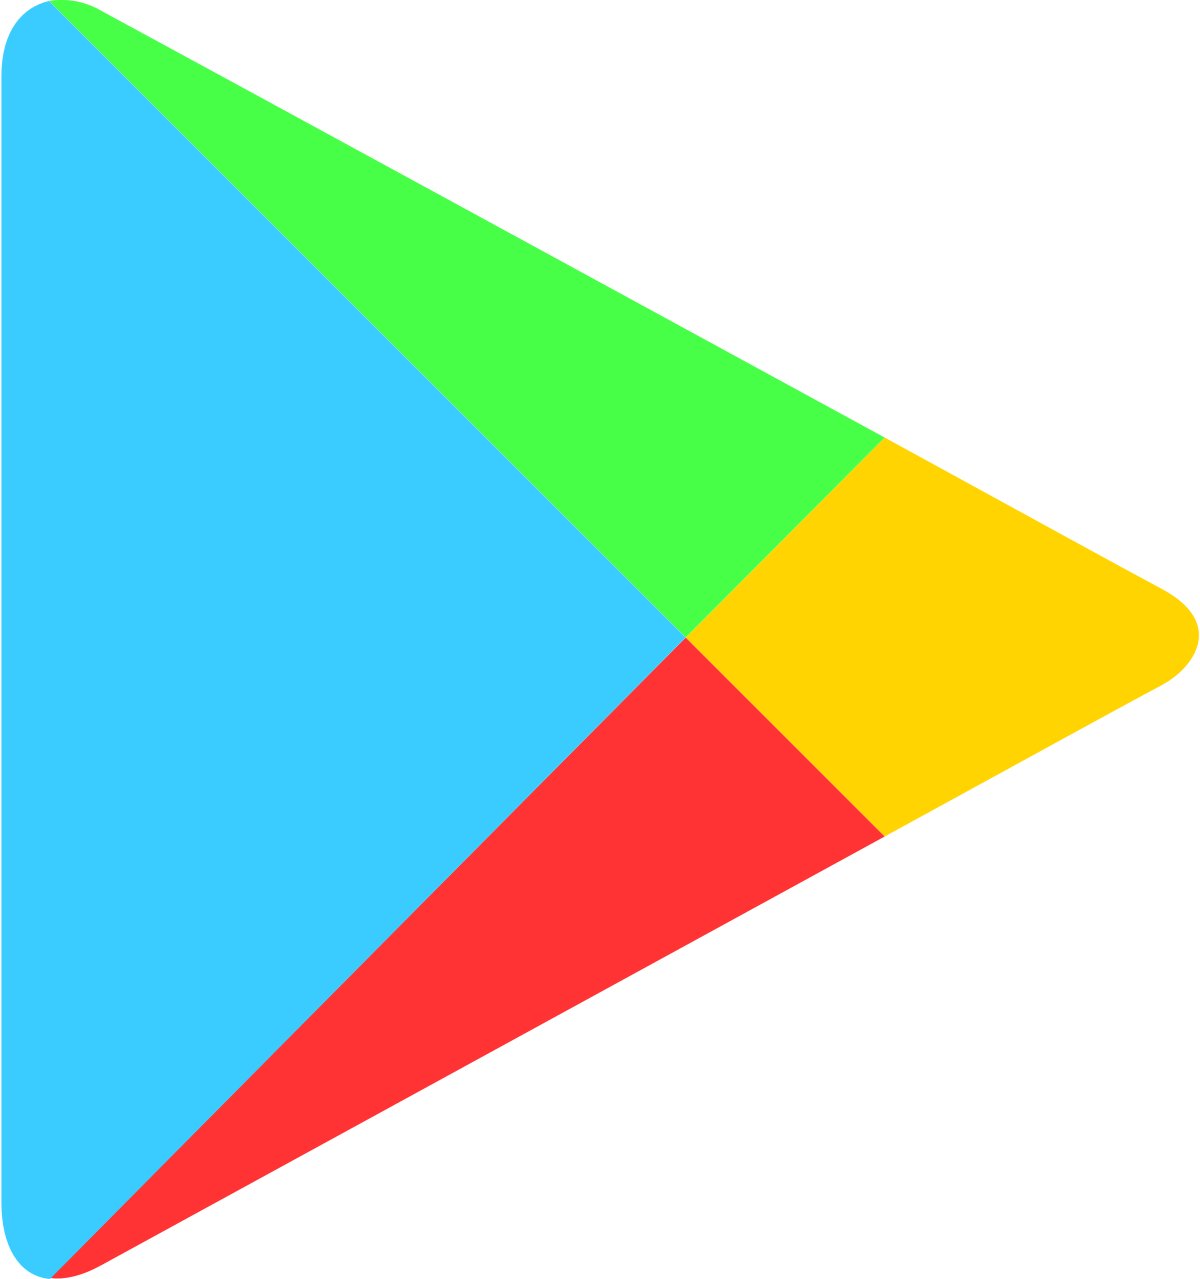
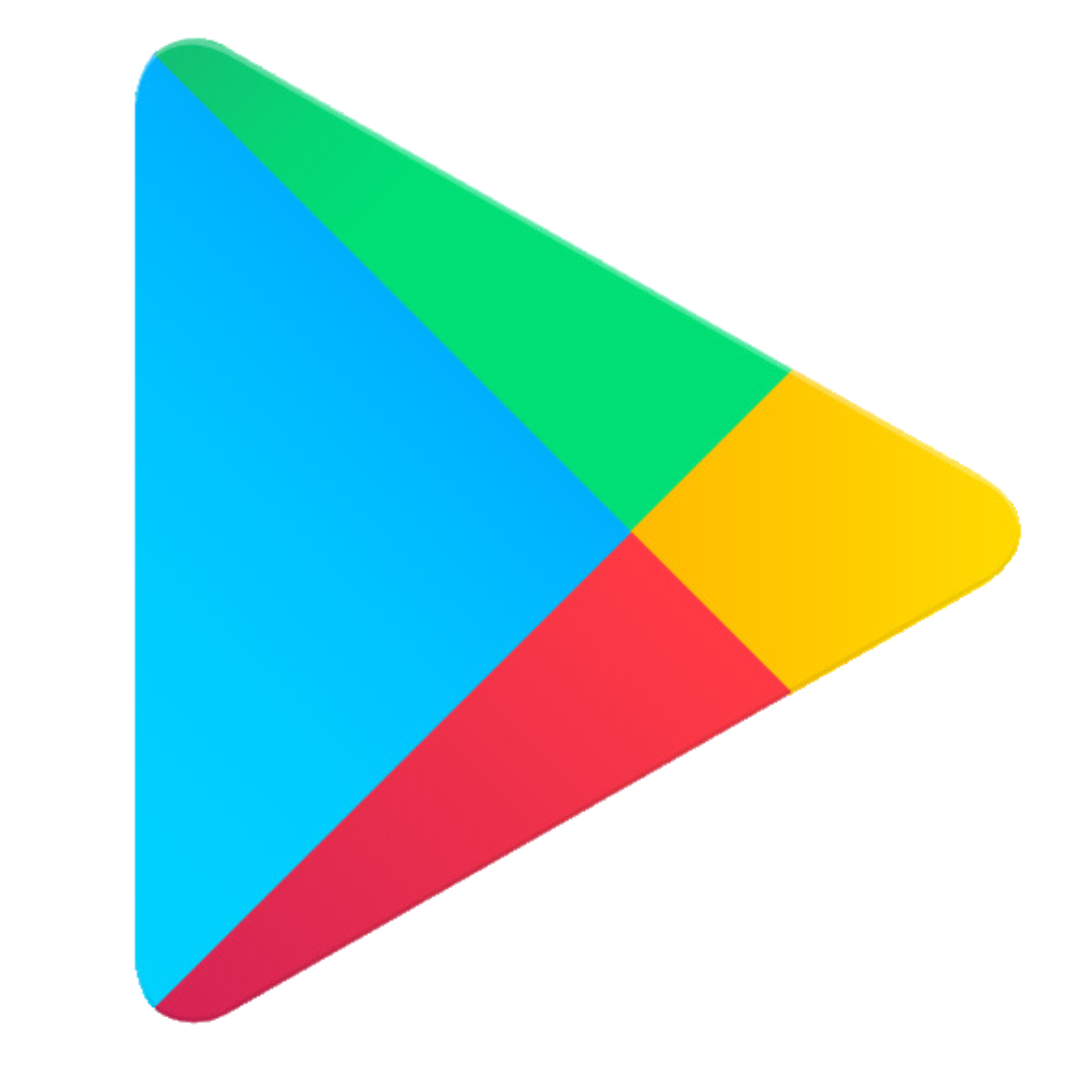
Cambios de merjoramiento footer
Se ubican iconos en el footer

diff --git a/pages/pago.html b/pages/pago.html
@@ -1,5 +1,6 @@
 <!DOCTYPE html>
 <html lang="es">
+
 <head>
     <meta charset="UTF-8">
     <meta name="viewport" content="width=device-width, initial-scale=1.0">
@@ -10,6 +11,7 @@
     <script src="../scripts/templateFooter.js"></script>
 
 </head>
+
 <body>
     <div class="order-body">
         <div class="order-container">
@@ -35,11 +37,11 @@
                 <p>Costo de envío: <span id="shipping-cost"></span></p>
             </div>
             <button class="pay-now-btn">Pagar Ahora</button>
-    
+
         </div>
-    
+
     </div>
-  
+
     <template id="footer-template">
         <style>
             .footer-container {
@@ -71,8 +73,9 @@
             }
 
             .app-links img {
-                width: 135px;
-                margin: 5px;
+                width: 90px;
+                height: 50px;
+                object-fit: contain;
             }
 
             .footer-social {
@@ -105,7 +108,8 @@
                 <div class="footer-section logo-section">
                     <img src="../assets/img/logofooter.png" alt="KFC Logo">
                     <p>Menu - Compra tu combo en línea - KFC Ecuador</p>
-                    <p>Conoce donde se encuentran las ubicaciones de las tiendas de KFC en Ecuador, utiliza nuestro mapa para localizar el local de KFC más cercano a ti.</p>
+                    <p>Conoce donde se encuentran las ubicaciones de las tiendas de KFC en Ecuador, utiliza nuestro mapa
+                        para localizar el local de KFC más cercano a ti.</p>
                 </div>
                 <div class="footer-section contact-section">
                     <h4>Contáctanos</h4>
@@ -124,15 +128,10 @@
                 <div class="footer-section app-section">
                     <h4>Descarga nuestra APP</h4>
                     <div class="app-links">
-                        <a href="#"><img src="path/to/appstore.png" alt="App Store"></a>
-                        <a href="#"><img src="path/to/playstore.png" alt="Google Play"></a>
+                        <a href="#"><img src="../assets/img/AppStore.png" alt="App Store"></a>
+                        <a href="#"><img src="../assets/img/Google.png" alt="Google Play"></a>
                     </div>
                 </div>
-            </div>
-            <div class="footer-social">
-                <a href="#"><i class="fab fa-facebook"></i></a>
-                <a href="#"><i class="fab fa-twitter"></i></a>
-                <a href="#"><i class="fab fa-instagram"></i></a>
             </div>
         </div>
     </template>

diff --git a/pages/login.html b/pages/login.html
@@ -115,8 +115,9 @@
             }
 
             .app-links img {
-                width: 135px;
-                margin: 5px;
+                width: 90px;
+                height: 50px;
+                object-fit: contain;
             }
 
             .footer-social {
@@ -169,15 +170,10 @@
                 <div class="footer-section app-section">
                     <h4>Descarga nuestra APP</h4>
                     <div class="app-links">
-                        <a href="#"><img src="assets\img\AppStore.png" alt="App Store"></a>
-                        <a href="#"><img src="path/to/playstore.png" alt="Google Play"></a>
+                        <a href="#"><img src="../assets/img/AppStore.png" alt="App Store"></a>
+                        <a href="#"><img src="../assets/img/Google.png" alt="Google Play"></a>
                     </div>
                 </div>
-            </div>
-            <div class="footer-social">
-                <a href="#"><i class="fab fa-facebook"></i></a>
-                <a href="#"><i class="fab fa-twitter"></i></a>
-                <a href="#"><i class="fab fa-instagram"></i></a>
             </div>
         </div>
     </template>
